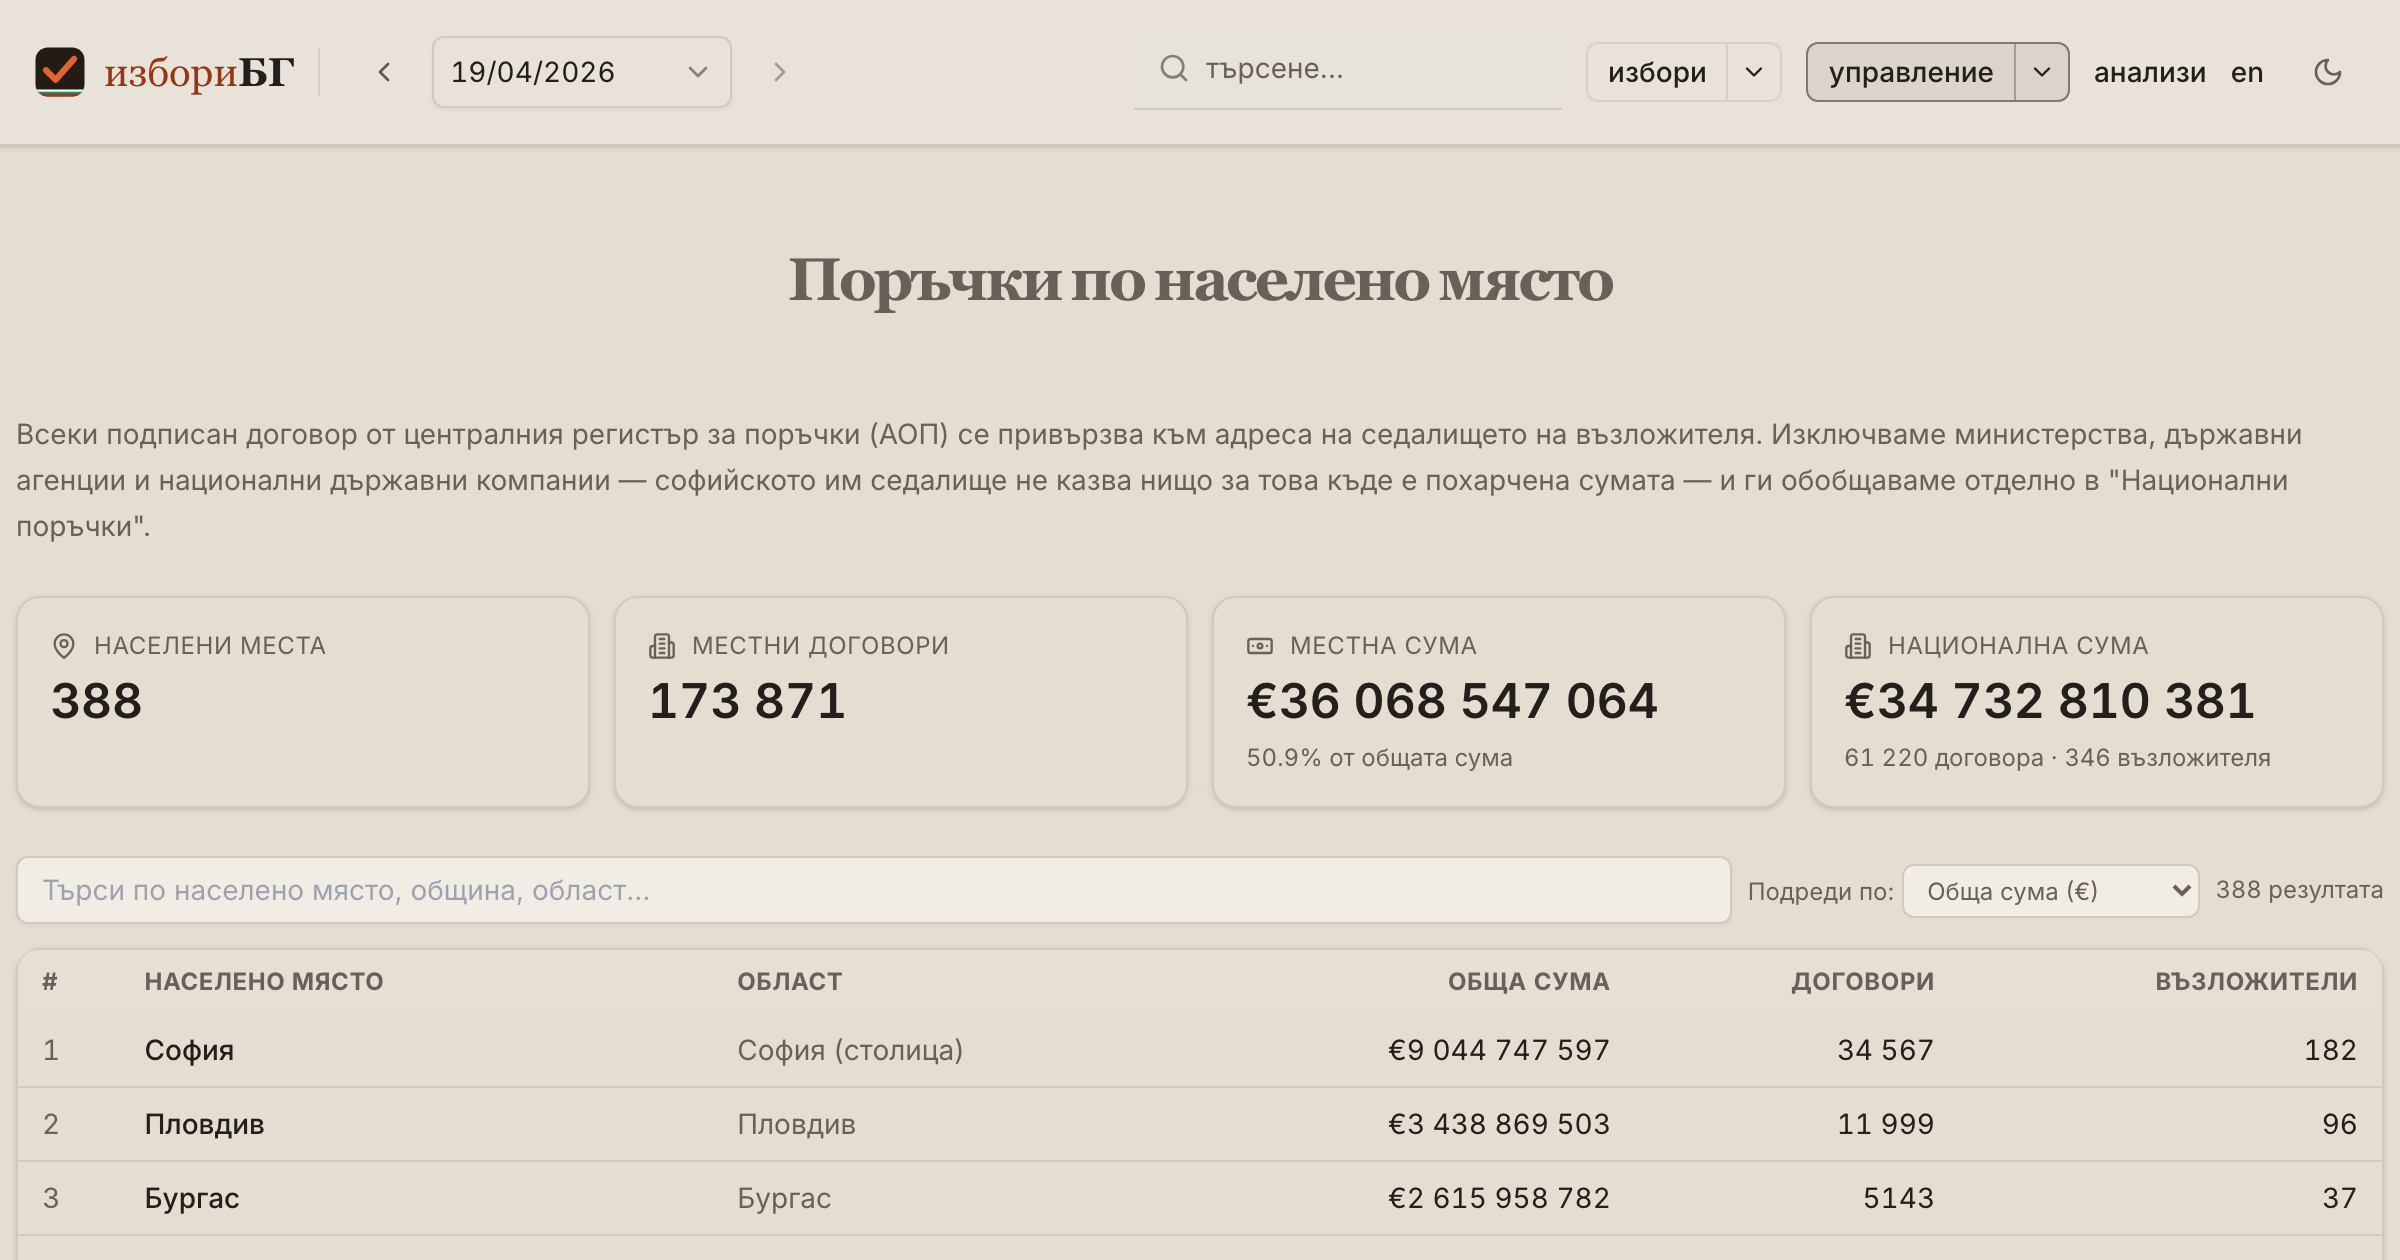
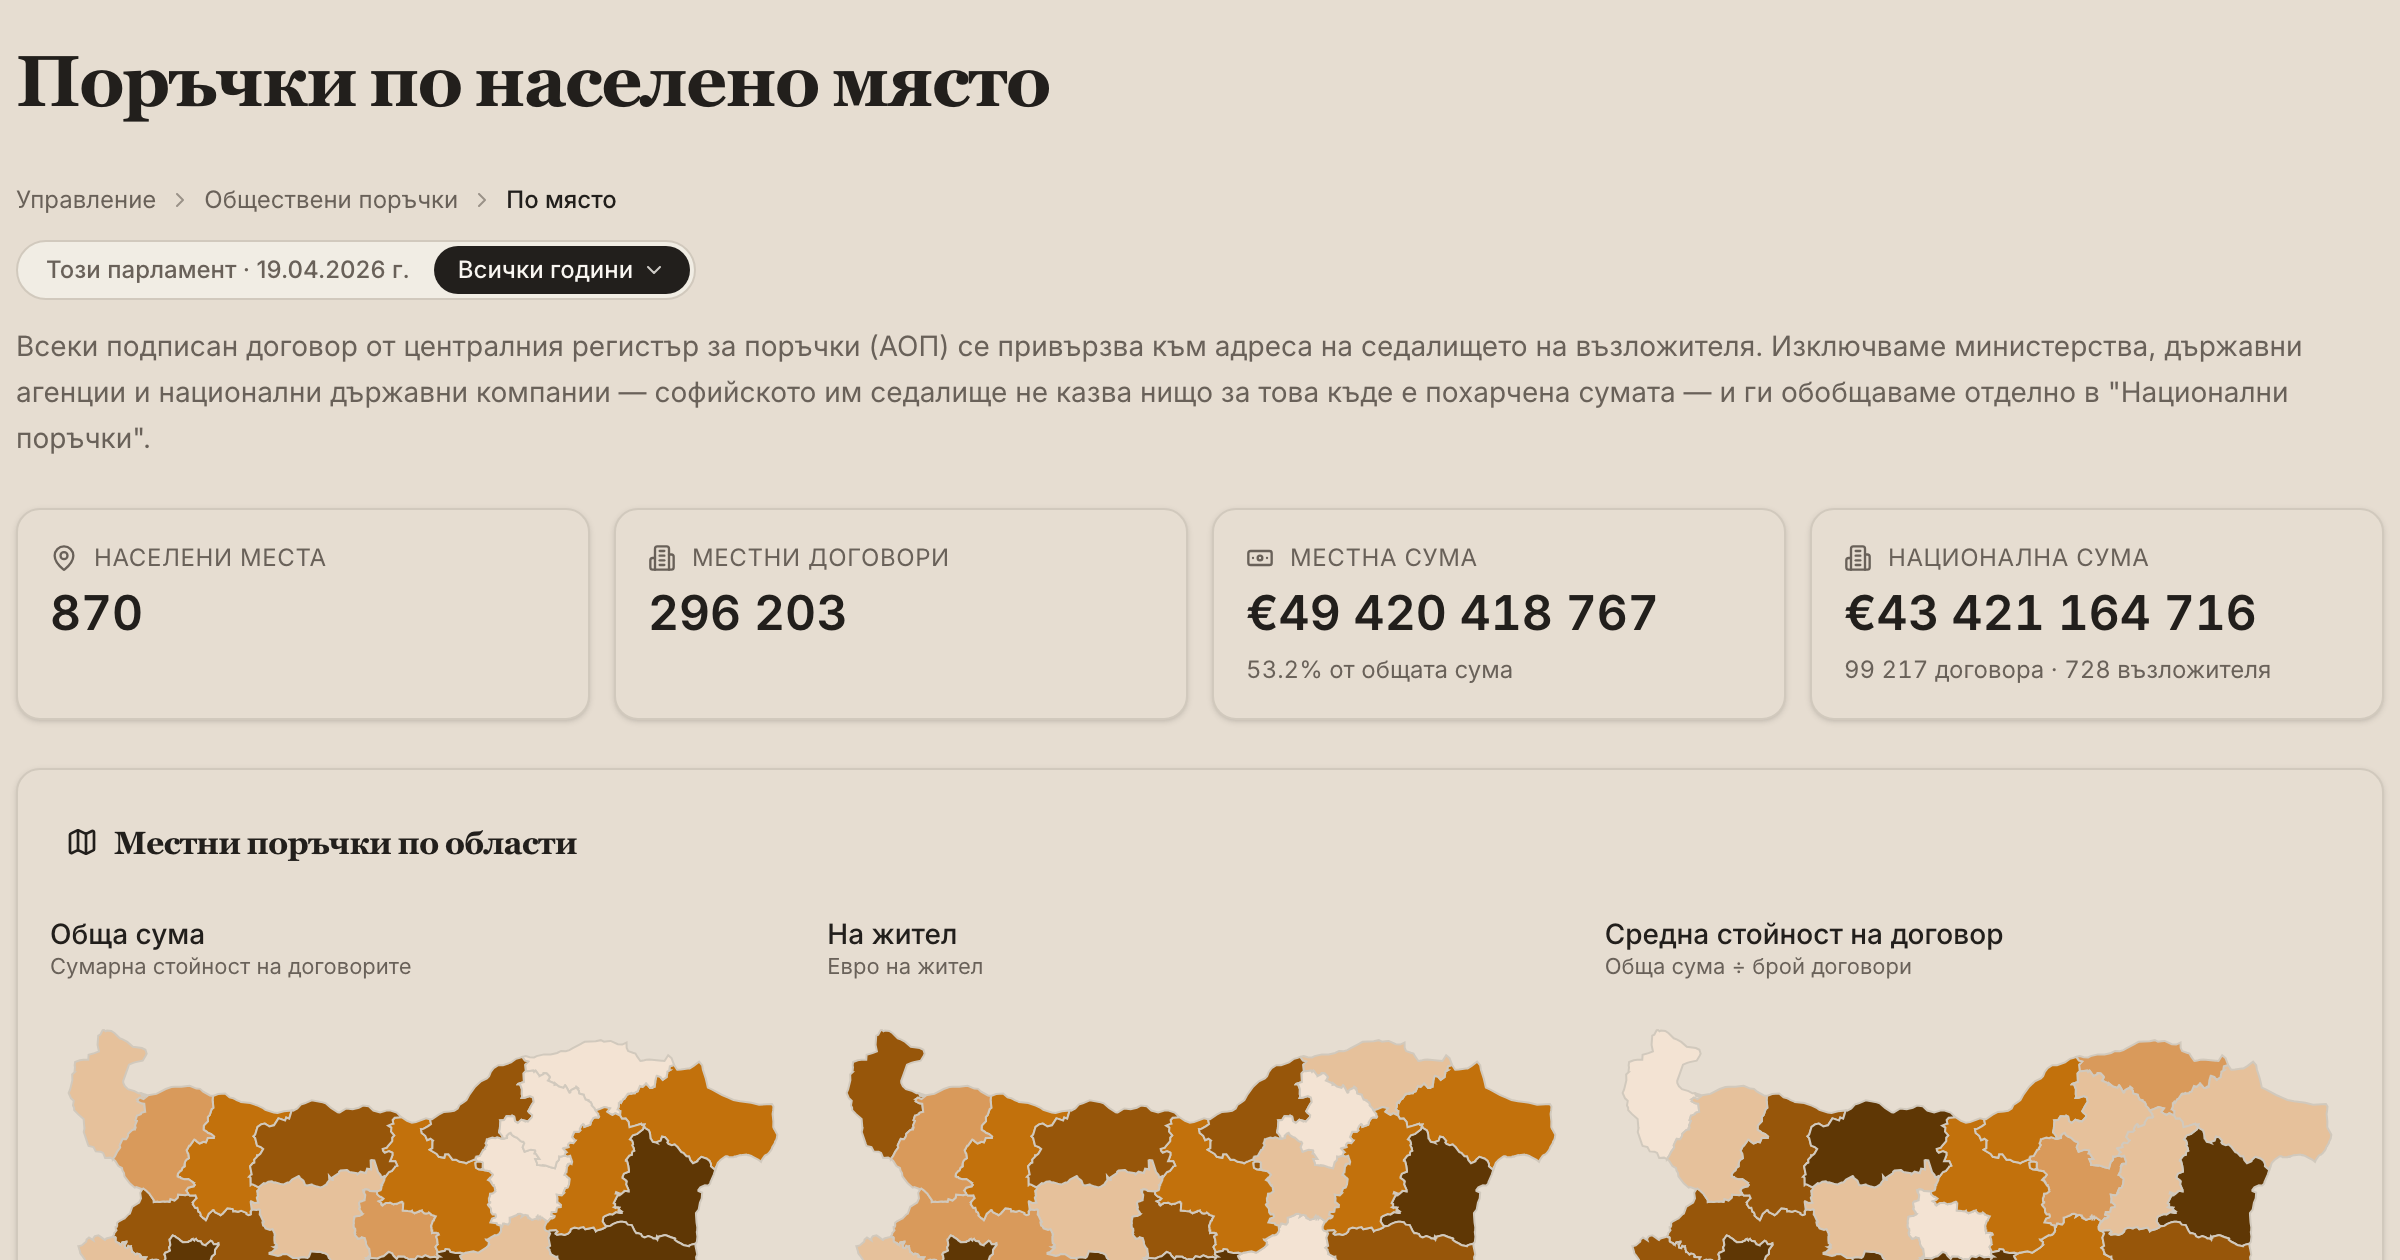
procurement place cards: one family card for 870 pages, and no card without a page

diff --git a/scripts/prerender/ogAndSitemapCoverage.test.ts b/scripts/prerender/ogAndSitemapCoverage.test.ts
@@ -743,6 +743,67 @@ describe("every captured card is referenced by a page", () => {
     ).toEqual([]);
   });
 
+  it("nor does any scripts/og/screenshot_*.ts family script", () => {
+    // ⚠ THE CLAUSE ABOVE READS `capture-screens.ts` AND NOTHING ELSE, and that blind spot is
+    // why three orphan cards — procurement-settlement-{sofia,plovdiv,varna} — sat in
+    // public/og/ from 2026-05-27, shot for pages that referenced them nowhere. The whole
+    // `/procurement/settlement/*` family had no `ogImage` at all and fell through to the
+    // site-wide default, so the cards that would have served it were written and ignored.
+    //
+    // Measured across all family scripts the day that was fixed: 15 cards written, 3
+    // orphaned, all three in the one file. So this checks the ORPHAN property over the other
+    // writers rather than demanding they migrate — the migration is worth doing for framing
+    // reasons (each clips {x:0, y:0} with the site header still in the DOM), but that is a
+    // separate change and this gate should not hold it hostage.
+    const scripts = fs
+      .readdirSync(path.join(REPO, "scripts/og"))
+      .filter((f) => /^screenshot_.*\.ts$/.test(f));
+    const orphans: string[] = [];
+    let cards = 0;
+    let families = 0;
+    for (const f of scripts) {
+      const src = fs.readFileSync(path.join(REPO, "scripts/og", f), "utf8");
+      if (!/public\/og|OG_DIR/.test(src)) continue;
+      // ⚠ NOT QUOTE-ADJACENT. `screenshot_regional.ts` and `screenshot_transport.ts` build the
+      // path as `path.resolve(…, "public/og/sector-regional.png")`, so a `["\'`]…\.png` match
+      // finds nothing in them — while the `public/og` guard above passes and makes them LOOK
+      // scanned. Measured: that shape hid 2 of 10 writers and 2 of 15 cards, and the first
+      // draft of this comment quoted the blind-spotted total (13) as if it were the real one.
+      const named = new Set<string>();
+      for (const m of src.matchAll(/([a-z0-9-]+)\.png/g)) named.add(m[1]);
+      for (const slug of named) {
+        cards++;
+        if (!referenced(slug)) orphans.push(`${f}: ${slug}`);
+      }
+      // `file: \`sector-${id}.png\`` — a family WITHIN a family, so the card name is a
+      // prefix and not a slug. Kept WITH its trailing dash: dropping it yields „sector",
+      // which never satisfies `startsWith("sector-")` and reported a false orphan against a
+      // family that is correctly wired. Matched against the route side's own template
+      // prefixes rather than through `referenced`, which expects a whole slug.
+      for (const m of src.matchAll(/["'`]([a-z0-9-]+-)\$\{/g)) {
+        cards++;
+        families++;
+        const prefix = m[1];
+        if (!templatePrefixes.some((tp) => tp === prefix))
+          orphans.push(`${f}: ${prefix}\${…} family`);
+      }
+    }
+    // Non-vacuity: these scripts still exist and still write cards, so a scan finding none
+    // means the extraction stopped matching, not that the problem went away.
+    expect(cards, "no family-script cards found — has the spec shape changed?").toBeGreaterThan(5); // prettier-ignore
+    // A SECOND floor, for the template branch specifically. Measured: deleting that branch
+    // outright left this test green, because the named-card count alone cleared the floor
+    // above — so the long comment beside it was defending a branch nothing protected.
+    expect(
+      families,
+      "no `prefix-${…}` card family found — the template branch is no longer matching",
+    ).toBeGreaterThan(0);
+    expect(
+      orphans,
+      `written by a family script and referenced by no route: ${orphans.join(", ")}`,
+    ).toEqual([]);
+  });
+
   it("the reference check is not vacuous", () => {
     // Both directions: an unreferenced slug is caught, and the prefix rule has
     // not widened to the point of matching anything.

diff --git a/scripts/og/capture-screens.ts b/scripts/og/capture-screens.ts
@@ -16,7 +16,7 @@ import { INSTITUTION_PACKS } from "../prerender/institutions";
 const OG_W = 1200;
 const OG_H = 630;
 // Defaults to the standard Vite dev port; override with OG_BASE_URL when the
-// dev server was auto-assigned a different port (matches screenshot_procurement.ts).
+// dev server was auto-assigned a different port.
 const DEV_URL = process.env.OG_BASE_URL ?? "http://localhost:5173";
 const OUT_DIR = path.resolve("public/og");
 
@@ -1209,6 +1209,44 @@ const captures: Capture[] = [
   // populated-branch `data-og`, a row link, a recharts surface). A container
   // that mounts empty would let the capture photograph the skeleton.
   // ---------------------------------------------------------------------------
+
+  {
+    // MOVED HERE from scripts/og/screenshot_procurement.ts, now deleted — the last family
+    // script that still wrote cards this way. It clipped {x:0, y:0} and hid no chrome, so the
+    // card led with the nav bar, the election picker and the search box, and the page began
+    // below them; it had not been re-shot since 2026-05-27, so it also carried the pre-rework
+    // centred, muted title.
+    //
+    // A sub-page, so `anchor: "h1"` rather than `[data-hub-head]` — HIDE_CHROME_CSS drops the
+    // site header, which makes the h1 the top of the page and the clip read title → scope →
+    // intro → the four figures → the three oblast choropleths. NOT the ranked table, which
+    // sits below the clip — an earlier draft of this comment claimed otherwise.
+    //
+    // ⚠ `waitFor` NAMES THE GEO PAYLOAD, and getting this wrong twice is what the attribute
+    // exists for. `"h1, table"` was satisfied by the `h1` alone — `<Title>` renders in the
+    // error branch too — so a failed call produced a card of an empty page. A settlement ROW
+    // LINK fixed that and was still wrong: the rows come from the TABLE's request, while both
+    // the four figures and the three choropleths come from `useProcurementGeo`. With the row
+    // link, a failed /api/db/procurement-geo left „—" in every KPI and three grey maps while
+    // the table loaded and the capture reported success.
+    //
+    // `[data-og="procurement-geo-loaded"]` is set on the KPI strip only when `summary` is
+    // present, so it means „the payload this card is a picture of has arrived".
+    //
+    // `?pscope=all`, like the /procurement hub entry beside it. Without it the page opens on
+    // the SELECTED parliament and the card reads „332 населени места · €2,42 млрд." — one
+    // term's slice, served as the family image for all 870 settlement pages, of which 538
+    // have no contracts in that window at all. At `all` it reads „870 населени места ·
+    // €49,42 млрд.", and that 870 is exactly the number of pages this card serves.
+    // (The pre-2026-08 card showed 388 / €36,07 млрд.; both the corpus and the placement
+    // rules have moved since, which is the sort of drift the freshness gate now catches.)
+    slug: "procurement-by-settlement",
+    routePath: "procurement/by-settlement?pscope=all",
+    waitFor: '[data-og="procurement-geo-loaded"]',
+    anchor: "h1",
+    viewport: OG_CLIP_VIEWPORT,
+    settleMs: 2500,
+  },
 
   // --- /funds sub-pages -------------------------------------------------------
   // MOVED HERE from scripts/og/screenshot_funds.ts, which is now deleted. That script clipped

diff --git a/src/screens/procurement/ProcurementBySettlementScreen.tsx b/src/screens/procurement/ProcurementBySettlementScreen.tsx
@@ -321,6 +321,19 @@ export const ProcurementBySettlementScreen: FC = () => {
           'Every signed contract published on the central procurement register (АОП) is pinned to the buyer\'s headquarters. We exclude central ministries, state agencies and nationally-operating state companies — their Sofia HQ tells you nothing about where the contract was spent — and aggregate them separately under "National procurement".'}
       </p>
 
+      {/* THE OG CAPTURE'S WAIT TARGET, and it marks LOADED rather than merely present.
+          Both the figures below and the three choropleths come from `useProcurementGeo`,
+          while the ranked table under them is a separate request — so waiting on a table row
+          let a failed geo call through and the card could be shot with „—" in every KPI and
+          three grey maps, reporting success.
+
+          The hook goes on the „% от общата сума" sub-line rather than on the strip, because
+          the strip always renders — its cells fall back to „—" — so it cannot express
+          „loaded", while that line exists only inside `summary ?`. Two further constraints
+          rule out the obvious alternatives: `capture_routes.test.ts` scans src/ for the
+          LITERAL `data-og="…"`, which a conditional attribute value or a spread hides; and
+          `waitForSelector` waits for VISIBILITY, so a `hidden` marker span never resolves and
+          the capture times out at 30 s. Both were tried. */}
       {/* KPI strip */}
       <div className="mb-6 grid gap-3 sm:grid-cols-2 lg:grid-cols-4">
         <Card>
@@ -357,7 +370,10 @@ export const ProcurementBySettlementScreen: FC = () => {
                 : "—"}
             </div>
             {summary ? (
-              <div className="mt-1 text-xs text-muted-foreground tabular-nums">
+              <div
+                className="mt-1 text-xs text-muted-foreground tabular-nums"
+                data-og="procurement-geo-loaded"
+              >
                 {(localShareOfMoney * 100).toFixed(1)}%{" "}
                 {t("procurement_settlement_of_total") || "of total spending"}
               </div>

diff --git a/scripts/prerender/dynamicRoutes.ts b/scripts/prerender/dynamicRoutes.ts
@@ -919,6 +919,17 @@ export const buildProcurementSettlementRoutes = async (): Promise<
       path: `procurement/settlement/${s.ekatte}`,
       title,
       description,
+      // ⚠ ONE FAMILY CARD FOR ALL 870, and until 2026-08-25 there was none at all — every
+      // settlement page fell through to DEFAULT_OG_IMAGE, so the whole family shared the
+      // site-wide picture. Three bespoke cards (Sofia, Plovdiv, Varna) had been SHOT for this
+      // family in May and referenced by nothing; they were deleted rather than wired, because
+      // 3 of 870 is a special case that buys almost nothing and triples the number of cards
+      // that go stale when the page changes.
+      //
+      // The picker's own card is the right family image precisely because it is not any one
+      // settlement: a card showing Sofia's figures on Plovdiv's page would be worse than a
+      // neutral one. Same shape as /funds/focus/<slug>, whose children share one card.
+      ogImage: "/og/procurement-by-settlement.png",
       bodyHtml: buildProcurementSettlementBody("bg", s),
       jsonLd: [
         buildWebPageLd({ title, description, url }),
